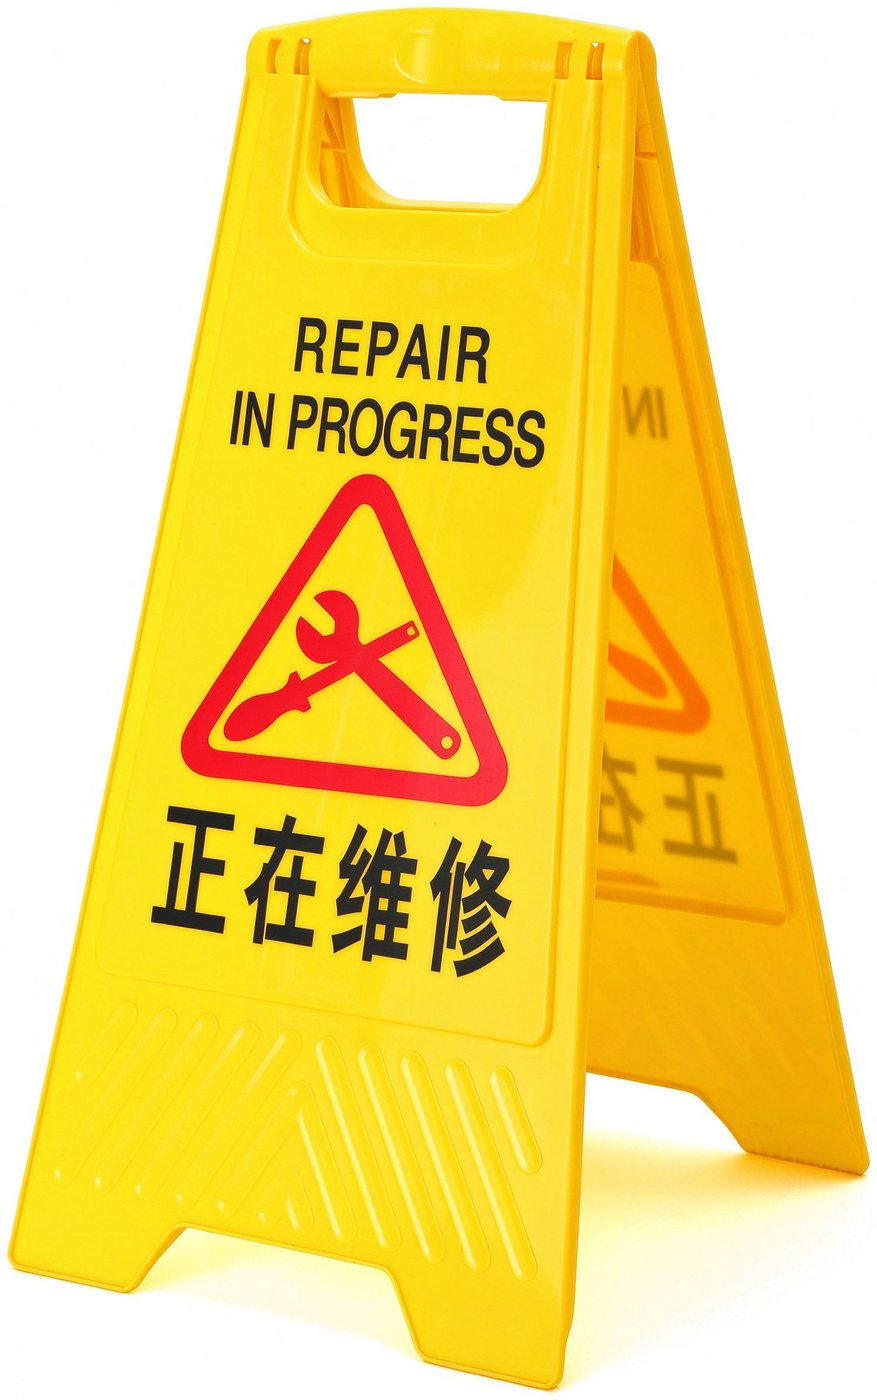
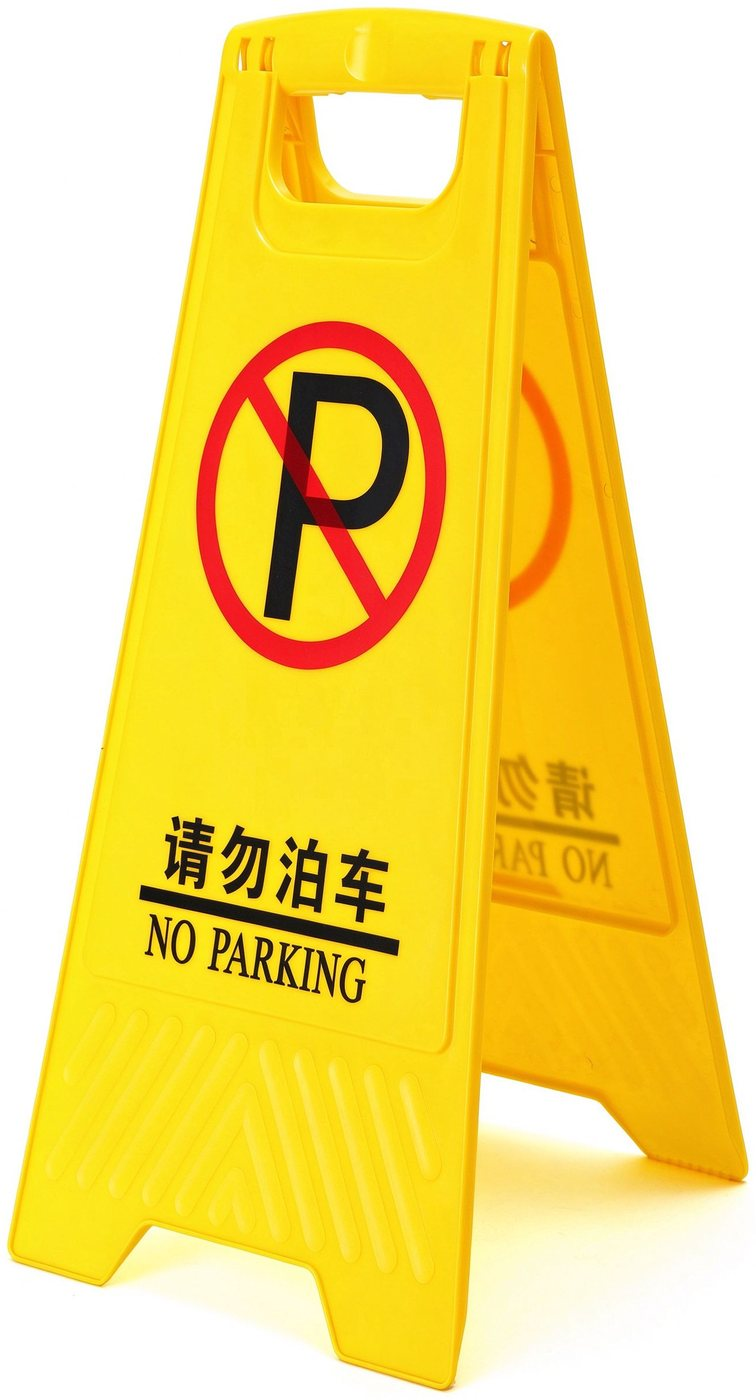
CN-103: refresh gallery with the new 8-photo set and its matching design overview

Changed region(s): [[0.0, 0.0, 1.0, 1.0]]

diff --git a/cn-103.html b/cn-103.html
@@ -66,7 +66,7 @@
           <div class="pdp-left">
           <div class="pdp-gallery">
             <div class="pdp-thumbs pdp-thumbs--many">
-              <button class="pdp-thumb active" data-full="assets/img/products/cn-103/cn103-01.jpg" type="button"><img src="assets/img/products/cn-103/cn103-01.jpg" alt="CN-103 A-frame caution board, REPAIR IN PROGRESS design"></button>
+              <button class="pdp-thumb active" data-full="assets/img/products/cn-103/cn103-01.jpg" type="button"><img src="assets/img/products/cn-103/cn103-01.jpg" alt="CN-103 A-frame caution board, NO PARKING design"></button>
               <button class="pdp-thumb" data-full="assets/img/products/cn-103/cn103-02.jpg" type="button"><img src="assets/img/products/cn-103/cn103-02.jpg" alt="Eight available bilingual caution board designs for CN-103"></button>
               <button class="pdp-thumb" data-full="assets/img/products/cn-103/cn103-03.jpg" type="button"><img src="assets/img/products/cn-103/cn103-03.jpg" alt="CN-103 cleaning suspended in progress design"></button>
               <button class="pdp-thumb" data-full="assets/img/products/cn-103/cn103-04.jpg" type="button"><img src="assets/img/products/cn-103/cn103-04.jpg" alt="CN-103 DANGER KEEP DISTANCE design"></button>
@@ -74,9 +74,10 @@
               <button class="pdp-thumb" data-full="assets/img/products/cn-103/cn103-06.jpg" type="button"><img src="assets/img/products/cn-103/cn103-06.jpg" alt="CN-103 CLEANING IN PROGRESS design"></button>
               <button class="pdp-thumb" data-full="assets/img/products/cn-103/cn103-07.jpg" type="button"><img src="assets/img/products/cn-103/cn103-07.jpg" alt="CN-103 NO ENTRY design"></button>
               <button class="pdp-thumb" data-full="assets/img/products/cn-103/cn103-08.jpg" type="button"><img src="assets/img/products/cn-103/cn103-08.jpg" alt="CN-103 APPROPRIATE PARKING design"></button>
+              <button class="pdp-thumb" data-full="assets/img/products/cn-103/cn103-09.jpg" type="button"><img src="assets/img/products/cn-103/cn103-09.jpg" alt="CN-103 REPAIR IN PROGRESS design"></button>
             </div>
             <div class="pdp-main pdp-main--cap" id="pdpMain">
-              <img src="assets/img/products/cn-103/cn103-01.jpg" alt="FeliClean CN-103 The Shape of A caution board product main image, REPAIR IN PROGRESS">
+              <img src="assets/img/products/cn-103/cn103-01.jpg" alt="FeliClean CN-103 The Shape of A caution board product main image, NO PARKING">
             </div>
           </div>
 

diff --git a/assets/js/products-data.js b/assets/js/products-data.js
@@ -59,7 +59,7 @@ window.FELI_PRODUCTS = [
   {
     href: "cn-103.html",
     img: "assets/img/products/cn-103/cn103-01.jpg",
-    alt: "CN-103 The Shape of A caution board, REPAIR IN PROGRESS",
+    alt: "CN-103 The Shape of A caution board, NO PARKING",
     model: "CN-103",
     name: "The Shape of A Caution Board",
     group: "pl",
